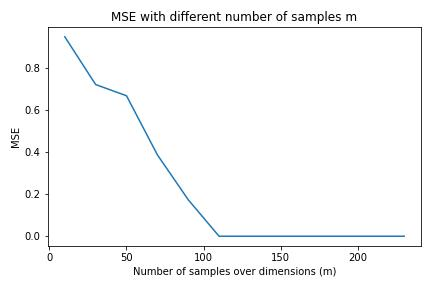
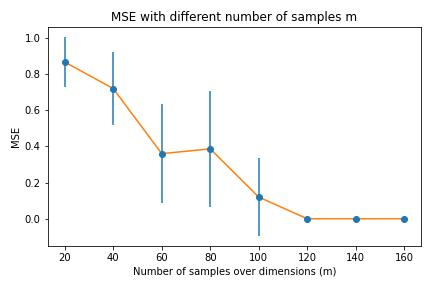
changes

diff --git a/run_experiments.py b/run_experiments.py
@@ -118,9 +118,7 @@ def run_multiple_experiments(repeat_n_times, beta, m, d, s, fixed_ones=False, si
         list_errors.append(errors[-1])
         steps_to_converge.append(len(errors))
 
-    return beta, np.mean(list_errors), np.mean(steps_to_converge)
-
-
+    return beta, list_errors, np.mean(steps_to_converge)
 
 
 def run_multiple_multi_proc(repeat_n_times, betas, m, d, s, fixed_ones=False, sign=False, **args): 
@@ -144,47 +142,3 @@ def run_multiple_multi_proc(repeat_n_times, betas, m, d, s, fixed_ones=False, si
             print('beta=', beta, 'n_iterations=', n_iterations, 'loss', loss)
 
     print('Best result: beta=', best_beta, 'n_iterations=', best_iterations, 'loss', best_loss)
-
-
-
-def run_multiple_multi_proc_sim_annealing(repeat_n_times, betas, m, d, s, mul_increases, increase_everys, fixed_ones=False, sign=False, iterations = 0): 
-
-
-    best_beta = 0
-    best_loss = math.inf
-    best_iterations = math.inf
-
-    with ProcessPoolExecutor() as executor:
-        futures = []
-        for beta in betas: 
-            for mul_inc in mul_increases: 
-                for increase_every in increase_everys: 
-                    futures.append(executor.submit(run_multiple_experiments, repeat_n_times, beta, m, d, s, fixed_ones=fixed_ones, 
-                                                   sign=sign, change_beta_every= increase_every, update_beta=mul_inc, iterations=iterations))
-
-        for future in concurrent.futures.as_completed(futures):
-            beta, loss, n_iterations = future.result()
-
-            if loss <= best_loss and n_iterations <= best_iterations:
-                best_beta = beta
-                best_loss = loss
-                best_iterations = n_iterations
-
-            print('beta=', beta, 'n_iterations=', n_iterations, 'loss', loss)
-
-    print('Best result: beta=', best_beta, 'n_iterations=', best_iterations, 'loss', best_loss)
-
-
-
-
-
-
-def run_multiple_ms(repeat_n_times, beta, m_values, d, s, mul_increase, increase_every, fixed_ones=False, sign=False, iterations = 0):
-    with ProcessPoolExecutor() as executor:
-        futures = []
-        for m_value in m_values: 
-            futures.append(executor.submit(repeat_n_times, beta, m_value, d, s, mul_increase, increase_every, fixed_ones=fixed_ones, sign=sign, iterations = iterations))
-
-        losses_with_different_m = [result[0] for result in futures]
-        
-    return losses_with_different_m
